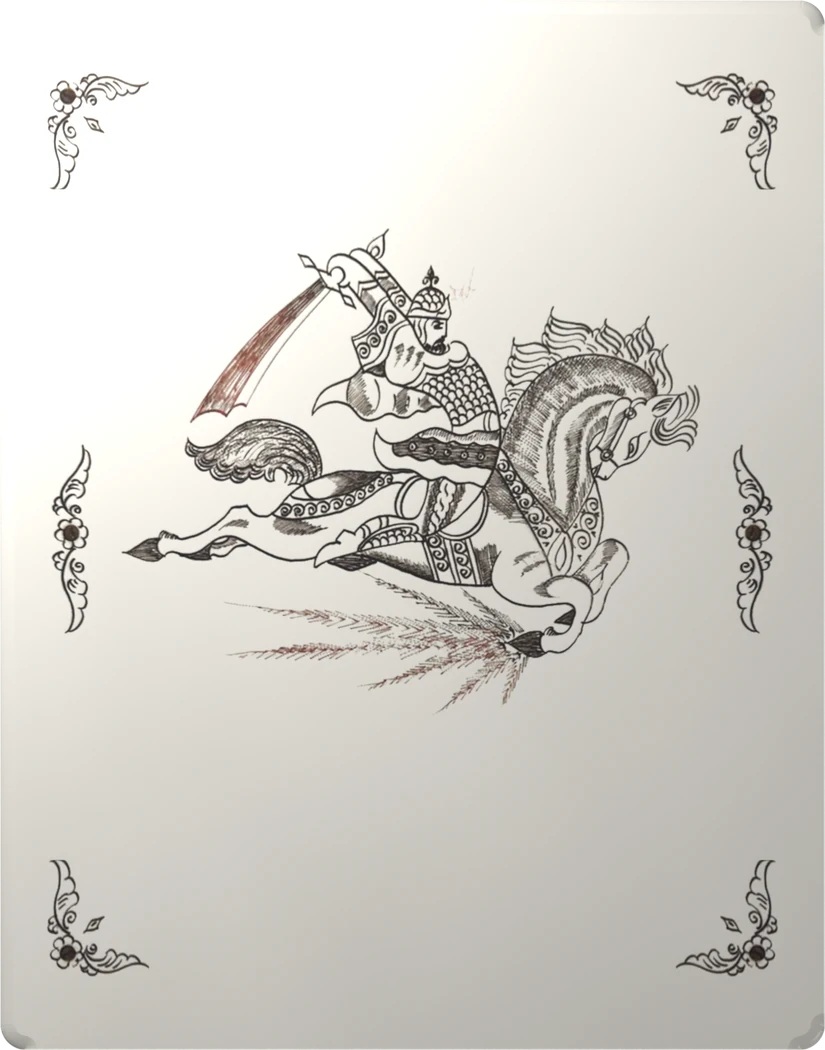
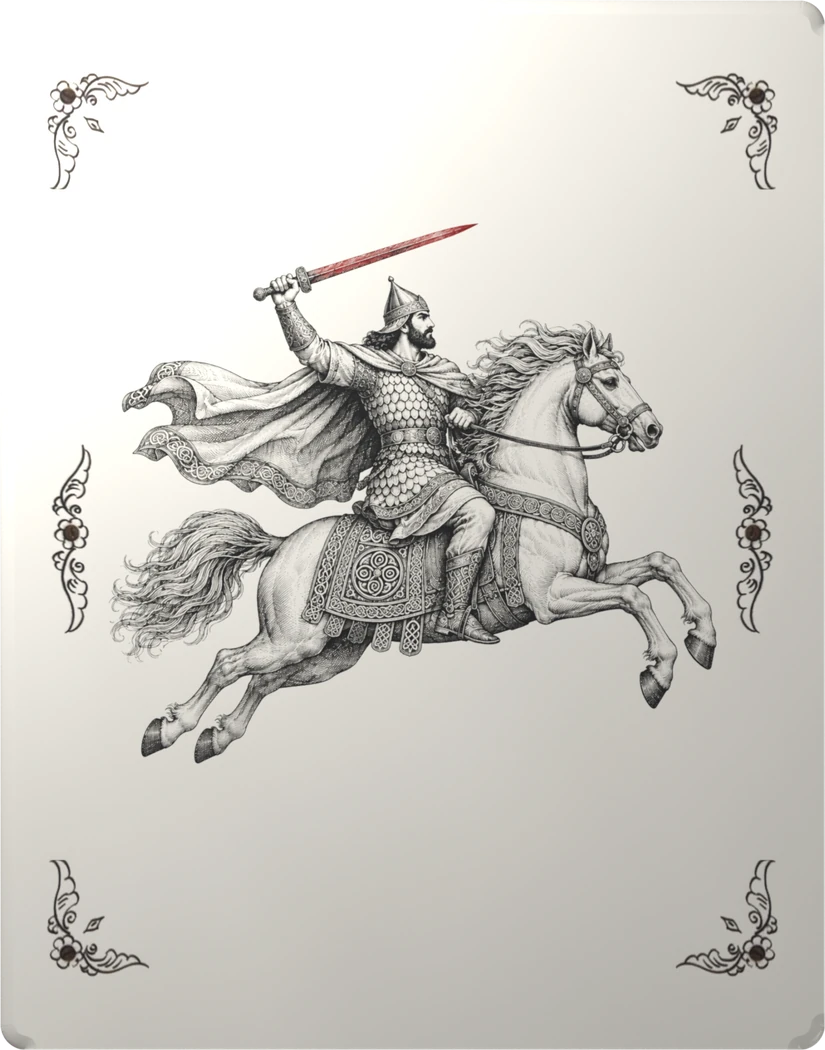
«Гравюра»: на крышке в меню — Давид Сасунский на коне, оригинальная гравюра с красным мечом (уменьшена на 5%), вместо всадника с фото
Claude-Session: https://claude.ai/code/session_013vq6NREHT7txoK1nXmxN83

Changed region(s): [[0.1212, 0.2133, 0.8788, 0.7314]]

diff --git a/index.html b/index.html
@@ -1026,10 +1026,10 @@ function probeFps(){
 }
 // GAME_VERSION — для людей, меняется при крупных обновлениях; APP_VERSION — номер сборки для кэша, растёт при каждой выкладке
 const GAME_VERSION='1.0';
-const APP_VERSION='144';   // совпадает с V в sw.js: номер сборки (имя кэша)
+const APP_VERSION='145';   // совпадает с V в sw.js: номер сборки (имя кэша)
 // AV — короткие хеши содержимого картинок (их пишет tools/stamp.py): адрес меняется, только когда меняется сам файл,
 // поэтому после обновления заново качается лишь то, что изменилось
-/*AV*/const AV={"boards/ararat-thumb.webp":"72ff05c2","boards/ararat.webp":"7c44b1ce","boards/ck-beech.png":"ef00f4f8","boards/ck-bronze.png":"db6b57b9","boards/ck-copper.png":"761c282a","boards/ck-gold.png":"87fddeef","boards/ck-ivory.png":"372b72ce","boards/ck-khatam.png":"8a67a596","boards/ck-khatamd.png":"fc76598b","boards/ck-onyx.png":"bfb41b3a","boards/ck-pearl.png":"83aaf841","boards/ck-pomegranate.png":"73a5236d","boards/ck-silver.png":"18222740","boards/ck-walnut.png":"1857427e","boards/ckside-beech.png":"2e4a01b1","boards/ckside-bronze.png":"700fbb0d","boards/ckside-copper.png":"54a53742","boards/ckside-gold.png":"f3c3b036","boards/ckside-ivory.png":"cce1b2d9","boards/ckside-khatam.png":"ba9fea77","boards/ckside-khatamd.png":"bb2cd930","boards/ckside-onyx.png":"3695f6bf","boards/ckside-pearl.png":"d9c5e6f3","boards/ckside-pomegranate.png":"79fe0975","boards/ckside-silver.png":"6d16c666","boards/ckside-walnut.png":"bc0fa647","boards/die-1.png":"2d6046dd","boards/die-2.png":"dba1ef51","boards/die-3.png":"c4754c62","boards/die-4.png":"c26495e1","boards/die-5.png":"49661381","boards/die-6.png":"3d46b683","boards/die-amber-1.png":"105d06f3","boards/die-amber-2.png":"f7695264","boards/die-amber-3.png":"518fcc5b","boards/die-amber-4.png":"82e42d65","boards/die-amber-5.png":"a53a1fed","boards/die-amber-6.png":"6114a46b","boards/die-gold-1.png":"606f1c7a","boards/die-gold-2.png":"68eb7219","boards/die-gold-3.png":"4abf64c2","boards/die-gold-4.png":"7ff8a963","boards/die-gold-5.png":"9f589a63","boards/die-gold-6.png":"f67c180d","boards/die-wood-1.png":"f9fecd23","boards/die-wood-2.png":"dad9e71b","boards/die-wood-3.png":"ebe40557","boards/die-wood-4.png":"f8c4f6d2","boards/die-wood-5.png":"239c202c","boards/die-wood-6.png":"ea05a4a3","boards/glass-thumb.webp":"5db12bdb","boards/glass.webp":"3fe1cddb","boards/goldrev-med-l.webp":"875c719a","boards/goldrev-med-r.webp":"beae367a","boards/goldrev-thumb.webp":"1b2ad914","boards/goldrev.webp":"898ad659","boards/gravura-lid.webp":"ea96f494","boards/gravura-thumb.webp":"8ccf7340","boards/gravura.webp":"8d2f6ae3","boards/intro-rev-w.webp":"c1e7a4bf","boards/intro-rev.webp":"9627dbfd","boards/leafshade.webp":"8666bd89","boards/lid-plain.webp":"32dbab24","boards/lid.webp":"47f4a845","boards/maple.webp":"c7e0d43c","boards/night-thumb.webp":"61a42599","boards/night.webp":"96cd9880","boards/plaque.webp":"6c60c0b6","boards/pomegranate-thumb.webp":"d5574e56","boards/pomegranate.webp":"a89189f5","boards/prop-beads.webp":"01fd0477","boards/prop-cup.webp":"67e8e539","boards/prop-pack.webp":"a1f55e5d","boards/pt-ararat-long.png":"b706af0c","boards/pt-ararat-short.png":"0d9bdbb6","boards/pt-glass-long.png":"2474d3b3","boards/pt-glass-short.png":"2474d3b3","boards/pt-goldrev-long.png":"b706af0c","boards/pt-goldrev-short.png":"0d9bdbb6","boards/pt-gravura-long.png":"e2440a04","boards/pt-gravura-short.png":"e2440a04","boards/pt-night-long.png":"c9576df0","boards/pt-night-short.png":"c9576df0","boards/pt-pomegranate-long.png":"b706af0c","boards/pt-pomegranate-short.png":"0d9bdbb6","boards/pt-sevan-long.png":"b706af0c","boards/pt-sevan-short.png":"0d9bdbb6","boards/pt-yerevan-long.png":"f28ec383","boards/pt-yerevan-short.png":"78fa0ed8","boards/sevan-thumb.webp":"35db3522","boards/sevan.webp":"56ec51be","boards/table.webp":"d353fc6c","boards/walnut-plank.webp":"3f05219c","boards/yerevan-thumb.webp":"4817779b","boards/yerevan.webp":"64e36c39"};/*/AV*/
+/*AV*/const AV={"boards/ararat-thumb.webp":"72ff05c2","boards/ararat.webp":"7c44b1ce","boards/ck-beech.png":"ef00f4f8","boards/ck-bronze.png":"db6b57b9","boards/ck-copper.png":"761c282a","boards/ck-gold.png":"87fddeef","boards/ck-ivory.png":"372b72ce","boards/ck-khatam.png":"8a67a596","boards/ck-khatamd.png":"fc76598b","boards/ck-onyx.png":"bfb41b3a","boards/ck-pearl.png":"83aaf841","boards/ck-pomegranate.png":"73a5236d","boards/ck-silver.png":"18222740","boards/ck-walnut.png":"1857427e","boards/ckside-beech.png":"2e4a01b1","boards/ckside-bronze.png":"700fbb0d","boards/ckside-copper.png":"54a53742","boards/ckside-gold.png":"f3c3b036","boards/ckside-ivory.png":"cce1b2d9","boards/ckside-khatam.png":"ba9fea77","boards/ckside-khatamd.png":"bb2cd930","boards/ckside-onyx.png":"3695f6bf","boards/ckside-pearl.png":"d9c5e6f3","boards/ckside-pomegranate.png":"79fe0975","boards/ckside-silver.png":"6d16c666","boards/ckside-walnut.png":"bc0fa647","boards/die-1.png":"2d6046dd","boards/die-2.png":"dba1ef51","boards/die-3.png":"c4754c62","boards/die-4.png":"c26495e1","boards/die-5.png":"49661381","boards/die-6.png":"3d46b683","boards/die-amber-1.png":"105d06f3","boards/die-amber-2.png":"f7695264","boards/die-amber-3.png":"518fcc5b","boards/die-amber-4.png":"82e42d65","boards/die-amber-5.png":"a53a1fed","boards/die-amber-6.png":"6114a46b","boards/die-gold-1.png":"606f1c7a","boards/die-gold-2.png":"68eb7219","boards/die-gold-3.png":"4abf64c2","boards/die-gold-4.png":"7ff8a963","boards/die-gold-5.png":"9f589a63","boards/die-gold-6.png":"f67c180d","boards/die-wood-1.png":"f9fecd23","boards/die-wood-2.png":"dad9e71b","boards/die-wood-3.png":"ebe40557","boards/die-wood-4.png":"f8c4f6d2","boards/die-wood-5.png":"239c202c","boards/die-wood-6.png":"ea05a4a3","boards/glass-thumb.webp":"5db12bdb","boards/glass.webp":"3fe1cddb","boards/goldrev-med-l.webp":"875c719a","boards/goldrev-med-r.webp":"beae367a","boards/goldrev-thumb.webp":"1b2ad914","boards/goldrev.webp":"898ad659","boards/gravura-lid.webp":"5ee13e95","boards/gravura-thumb.webp":"8ccf7340","boards/gravura.webp":"8d2f6ae3","boards/intro-rev-w.webp":"c1e7a4bf","boards/intro-rev.webp":"9627dbfd","boards/leafshade.webp":"8666bd89","boards/lid-plain.webp":"32dbab24","boards/lid.webp":"47f4a845","boards/maple.webp":"c7e0d43c","boards/night-thumb.webp":"61a42599","boards/night.webp":"96cd9880","boards/plaque.webp":"6c60c0b6","boards/pomegranate-thumb.webp":"d5574e56","boards/pomegranate.webp":"a89189f5","boards/prop-beads.webp":"01fd0477","boards/prop-cup.webp":"67e8e539","boards/prop-pack.webp":"a1f55e5d","boards/pt-ararat-long.png":"b706af0c","boards/pt-ararat-short.png":"0d9bdbb6","boards/pt-glass-long.png":"2474d3b3","boards/pt-glass-short.png":"2474d3b3","boards/pt-goldrev-long.png":"b706af0c","boards/pt-goldrev-short.png":"0d9bdbb6","boards/pt-gravura-long.png":"e2440a04","boards/pt-gravura-short.png":"e2440a04","boards/pt-night-long.png":"c9576df0","boards/pt-night-short.png":"c9576df0","boards/pt-pomegranate-long.png":"b706af0c","boards/pt-pomegranate-short.png":"0d9bdbb6","boards/pt-sevan-long.png":"b706af0c","boards/pt-sevan-short.png":"0d9bdbb6","boards/pt-yerevan-long.png":"f28ec383","boards/pt-yerevan-short.png":"78fa0ed8","boards/sevan-thumb.webp":"35db3522","boards/sevan.webp":"56ec51be","boards/table.webp":"d353fc6c","boards/walnut-plank.webp":"3f05219c","boards/yerevan-thumb.webp":"4817779b","boards/yerevan.webp":"64e36c39"};/*/AV*/
 const av=p=>p+'?v='+(AV[p]||APP_VERSION);
 const NS='http://www.w3.org/2000/svg';
 const f2=v=>(+v).toFixed(1);

diff --git a/sw.js b/sw.js
@@ -1,8 +1,8 @@
 // Офлайн-кэш: страница, доски, звуки и шрифты кэшируются при установке.
-const V = '144';                 // = APP_VERSION в index.html
+const V = '145';                 // = APP_VERSION в index.html
 const VERSION = 'nardy-v' + V;
 // хеши содержимого картинок — те же, что AV в index.html (пишет tools/stamp.py)
-/*AV*/const AV={"boards/ararat-thumb.webp":"72ff05c2","boards/ararat.webp":"7c44b1ce","boards/ck-beech.png":"ef00f4f8","boards/ck-bronze.png":"db6b57b9","boards/ck-copper.png":"761c282a","boards/ck-gold.png":"87fddeef","boards/ck-ivory.png":"372b72ce","boards/ck-khatam.png":"8a67a596","boards/ck-khatamd.png":"fc76598b","boards/ck-onyx.png":"bfb41b3a","boards/ck-pearl.png":"83aaf841","boards/ck-pomegranate.png":"73a5236d","boards/ck-silver.png":"18222740","boards/ck-walnut.png":"1857427e","boards/ckside-beech.png":"2e4a01b1","boards/ckside-bronze.png":"700fbb0d","boards/ckside-copper.png":"54a53742","boards/ckside-gold.png":"f3c3b036","boards/ckside-ivory.png":"cce1b2d9","boards/ckside-khatam.png":"ba9fea77","boards/ckside-khatamd.png":"bb2cd930","boards/ckside-onyx.png":"3695f6bf","boards/ckside-pearl.png":"d9c5e6f3","boards/ckside-pomegranate.png":"79fe0975","boards/ckside-silver.png":"6d16c666","boards/ckside-walnut.png":"bc0fa647","boards/die-1.png":"2d6046dd","boards/die-2.png":"dba1ef51","boards/die-3.png":"c4754c62","boards/die-4.png":"c26495e1","boards/die-5.png":"49661381","boards/die-6.png":"3d46b683","boards/die-amber-1.png":"105d06f3","boards/die-amber-2.png":"f7695264","boards/die-amber-3.png":"518fcc5b","boards/die-amber-4.png":"82e42d65","boards/die-amber-5.png":"a53a1fed","boards/die-amber-6.png":"6114a46b","boards/die-gold-1.png":"606f1c7a","boards/die-gold-2.png":"68eb7219","boards/die-gold-3.png":"4abf64c2","boards/die-gold-4.png":"7ff8a963","boards/die-gold-5.png":"9f589a63","boards/die-gold-6.png":"f67c180d","boards/die-wood-1.png":"f9fecd23","boards/die-wood-2.png":"dad9e71b","boards/die-wood-3.png":"ebe40557","boards/die-wood-4.png":"f8c4f6d2","boards/die-wood-5.png":"239c202c","boards/die-wood-6.png":"ea05a4a3","boards/glass-thumb.webp":"5db12bdb","boards/glass.webp":"3fe1cddb","boards/goldrev-med-l.webp":"875c719a","boards/goldrev-med-r.webp":"beae367a","boards/goldrev-thumb.webp":"1b2ad914","boards/goldrev.webp":"898ad659","boards/gravura-lid.webp":"ea96f494","boards/gravura-thumb.webp":"8ccf7340","boards/gravura.webp":"8d2f6ae3","boards/intro-rev-w.webp":"c1e7a4bf","boards/intro-rev.webp":"9627dbfd","boards/leafshade.webp":"8666bd89","boards/lid-plain.webp":"32dbab24","boards/lid.webp":"47f4a845","boards/maple.webp":"c7e0d43c","boards/night-thumb.webp":"61a42599","boards/night.webp":"96cd9880","boards/plaque.webp":"6c60c0b6","boards/pomegranate-thumb.webp":"d5574e56","boards/pomegranate.webp":"a89189f5","boards/prop-beads.webp":"01fd0477","boards/prop-cup.webp":"67e8e539","boards/prop-pack.webp":"a1f55e5d","boards/pt-ararat-long.png":"b706af0c","boards/pt-ararat-short.png":"0d9bdbb6","boards/pt-glass-long.png":"2474d3b3","boards/pt-glass-short.png":"2474d3b3","boards/pt-goldrev-long.png":"b706af0c","boards/pt-goldrev-short.png":"0d9bdbb6","boards/pt-gravura-long.png":"e2440a04","boards/pt-gravura-short.png":"e2440a04","boards/pt-night-long.png":"c9576df0","boards/pt-night-short.png":"c9576df0","boards/pt-pomegranate-long.png":"b706af0c","boards/pt-pomegranate-short.png":"0d9bdbb6","boards/pt-sevan-long.png":"b706af0c","boards/pt-sevan-short.png":"0d9bdbb6","boards/pt-yerevan-long.png":"f28ec383","boards/pt-yerevan-short.png":"78fa0ed8","boards/sevan-thumb.webp":"35db3522","boards/sevan.webp":"56ec51be","boards/table.webp":"d353fc6c","boards/walnut-plank.webp":"3f05219c","boards/yerevan-thumb.webp":"4817779b","boards/yerevan.webp":"64e36c39"};/*/AV*/
+/*AV*/const AV={"boards/ararat-thumb.webp":"72ff05c2","boards/ararat.webp":"7c44b1ce","boards/ck-beech.png":"ef00f4f8","boards/ck-bronze.png":"db6b57b9","boards/ck-copper.png":"761c282a","boards/ck-gold.png":"87fddeef","boards/ck-ivory.png":"372b72ce","boards/ck-khatam.png":"8a67a596","boards/ck-khatamd.png":"fc76598b","boards/ck-onyx.png":"bfb41b3a","boards/ck-pearl.png":"83aaf841","boards/ck-pomegranate.png":"73a5236d","boards/ck-silver.png":"18222740","boards/ck-walnut.png":"1857427e","boards/ckside-beech.png":"2e4a01b1","boards/ckside-bronze.png":"700fbb0d","boards/ckside-copper.png":"54a53742","boards/ckside-gold.png":"f3c3b036","boards/ckside-ivory.png":"cce1b2d9","boards/ckside-khatam.png":"ba9fea77","boards/ckside-khatamd.png":"bb2cd930","boards/ckside-onyx.png":"3695f6bf","boards/ckside-pearl.png":"d9c5e6f3","boards/ckside-pomegranate.png":"79fe0975","boards/ckside-silver.png":"6d16c666","boards/ckside-walnut.png":"bc0fa647","boards/die-1.png":"2d6046dd","boards/die-2.png":"dba1ef51","boards/die-3.png":"c4754c62","boards/die-4.png":"c26495e1","boards/die-5.png":"49661381","boards/die-6.png":"3d46b683","boards/die-amber-1.png":"105d06f3","boards/die-amber-2.png":"f7695264","boards/die-amber-3.png":"518fcc5b","boards/die-amber-4.png":"82e42d65","boards/die-amber-5.png":"a53a1fed","boards/die-amber-6.png":"6114a46b","boards/die-gold-1.png":"606f1c7a","boards/die-gold-2.png":"68eb7219","boards/die-gold-3.png":"4abf64c2","boards/die-gold-4.png":"7ff8a963","boards/die-gold-5.png":"9f589a63","boards/die-gold-6.png":"f67c180d","boards/die-wood-1.png":"f9fecd23","boards/die-wood-2.png":"dad9e71b","boards/die-wood-3.png":"ebe40557","boards/die-wood-4.png":"f8c4f6d2","boards/die-wood-5.png":"239c202c","boards/die-wood-6.png":"ea05a4a3","boards/glass-thumb.webp":"5db12bdb","boards/glass.webp":"3fe1cddb","boards/goldrev-med-l.webp":"875c719a","boards/goldrev-med-r.webp":"beae367a","boards/goldrev-thumb.webp":"1b2ad914","boards/goldrev.webp":"898ad659","boards/gravura-lid.webp":"5ee13e95","boards/gravura-thumb.webp":"8ccf7340","boards/gravura.webp":"8d2f6ae3","boards/intro-rev-w.webp":"c1e7a4bf","boards/intro-rev.webp":"9627dbfd","boards/leafshade.webp":"8666bd89","boards/lid-plain.webp":"32dbab24","boards/lid.webp":"47f4a845","boards/maple.webp":"c7e0d43c","boards/night-thumb.webp":"61a42599","boards/night.webp":"96cd9880","boards/plaque.webp":"6c60c0b6","boards/pomegranate-thumb.webp":"d5574e56","boards/pomegranate.webp":"a89189f5","boards/prop-beads.webp":"01fd0477","boards/prop-cup.webp":"67e8e539","boards/prop-pack.webp":"a1f55e5d","boards/pt-ararat-long.png":"b706af0c","boards/pt-ararat-short.png":"0d9bdbb6","boards/pt-glass-long.png":"2474d3b3","boards/pt-glass-short.png":"2474d3b3","boards/pt-goldrev-long.png":"b706af0c","boards/pt-goldrev-short.png":"0d9bdbb6","boards/pt-gravura-long.png":"e2440a04","boards/pt-gravura-short.png":"e2440a04","boards/pt-night-long.png":"c9576df0","boards/pt-night-short.png":"c9576df0","boards/pt-pomegranate-long.png":"b706af0c","boards/pt-pomegranate-short.png":"0d9bdbb6","boards/pt-sevan-long.png":"b706af0c","boards/pt-sevan-short.png":"0d9bdbb6","boards/pt-yerevan-long.png":"f28ec383","boards/pt-yerevan-short.png":"78fa0ed8","boards/sevan-thumb.webp":"35db3522","boards/sevan.webp":"56ec51be","boards/table.webp":"d353fc6c","boards/walnut-plank.webp":"3f05219c","boards/yerevan-thumb.webp":"4817779b","boards/yerevan.webp":"64e36c39"};/*/AV*/
 const av = p => AV[p] ? p + '?v=' + AV[p] : p;
 const SHELL = [
   './',

diff --git a/tools/render_gravura_lid.py b/tools/render_gravura_lid.py
@@ -1,4 +1,4 @@
-# Крышка нард «Гравюра» для главного меню — по фото настоящей крышки: белый акрил, в центре всадник на коне
+# Крышка нард «Гравюра» для главного меню — по фото настоящей крышки: белый акрил, в центре Давид Сасунский на коне
 # (гравировка, клинок и пламя — красным), в углах и посередине длинных краёв — узорные уголки.
 # Части вырезаны из выпрямленного фото (tools/tex/uzor/lid-*.png: цвет штриха + прозрачность), масштаб как на фото.
 # Результат: .preview/layers-gravura-lid.npz для tools/blender_generic.py (крышка 825×1050, как boards/lid.webp).
@@ -19,11 +19,11 @@ def part(name):
     return a[..., :3], a[..., 3]
 
 
-def put(alb, ink, name, cx, cy, fh=False, fv=False):
+def put(alb, ink, name, cx, cy, fh=False, fv=False, width=None):
     c, m = part(name)
     if fh: c, m = c[:, ::-1], m[:, ::-1]
     if fv: c, m = c[::-1], m[::-1]
-    z = PH * K
+    z = PH * K if width is None else width * K / m.shape[1]
     c = ndi.zoom(c, (z, z, 1), order=1); m = np.clip(ndi.zoom(m, z, order=1), 0, 1)
     h, w = m.shape; x0, y0 = int(cx * K - w / 2), int(cy * K - h / 2)
     alb[y0:y0 + h, x0:x0 + w] = alb[y0:y0 + h, x0:x0 + w] * (1 - m[..., None]) + alb[y0:y0 + h, x0:x0 + w] * c * m[..., None]
@@ -38,7 +38,8 @@ def build():
     h = 22 * np.clip(d / 14, 0, 1) ** .6                      # скруглённая кромка крышки
     alb = np.ones((H, W, 3)) * np.array((.84, .83, .80)) * (.975 + .05 * fbm(H, W, 3, 4, 31, 3))[..., None]
     ink = np.zeros((H, W))
-    put(alb, ink, 'lid-rider', LW / 2, LH * .45)
+    # Давид Сасунский на коне — оригинальная гравюра (tools/tex/uzor/david-src.png, сгенерирована в Figma по описанию)
+    put(alb, ink, 'lid-david', LW / 2, LH * .47, width=608)
     cw, chh = 160 * PH / 2, 180 * PH / 2
     for fh in (False, True):
         for fv in (False, True):
